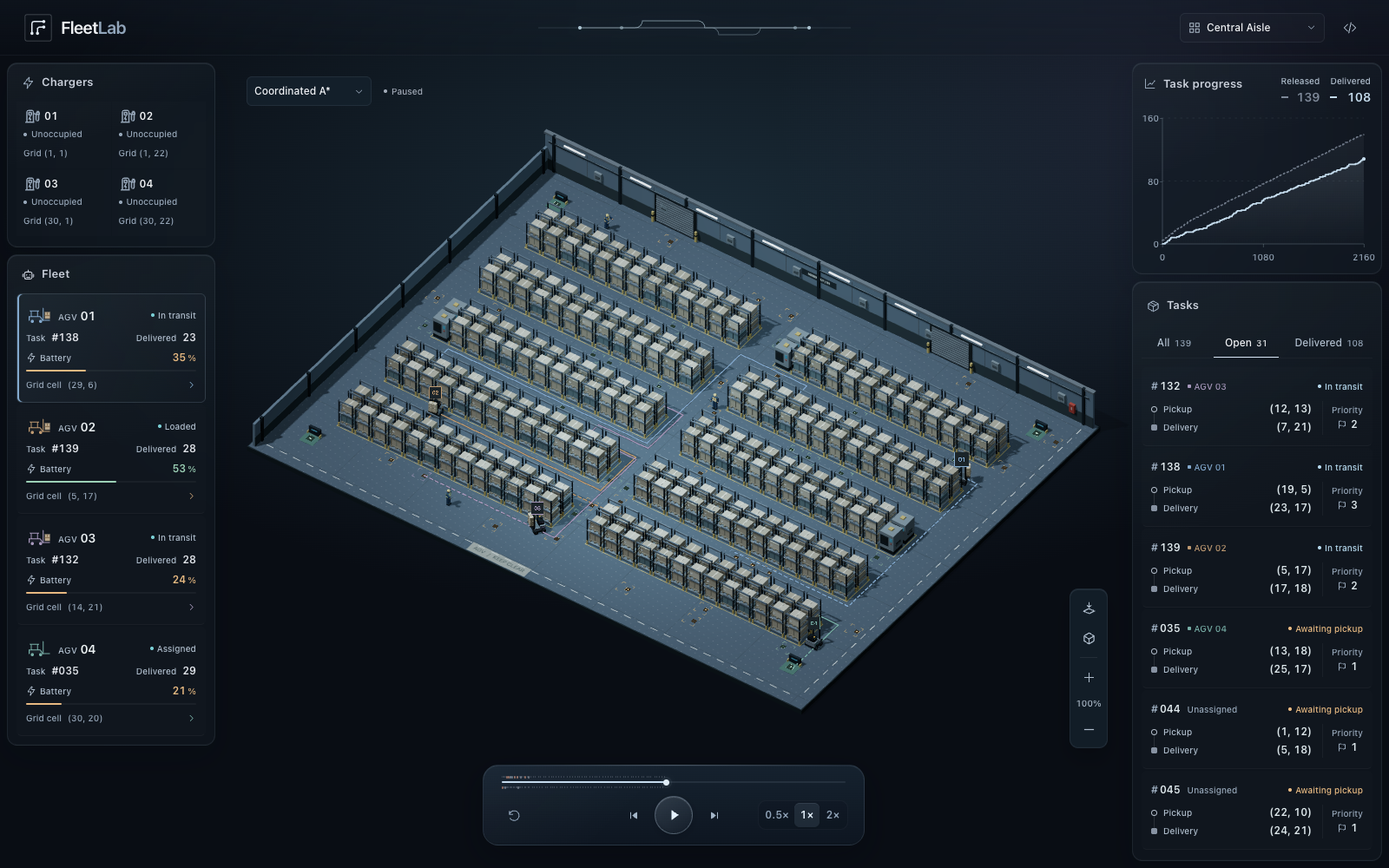
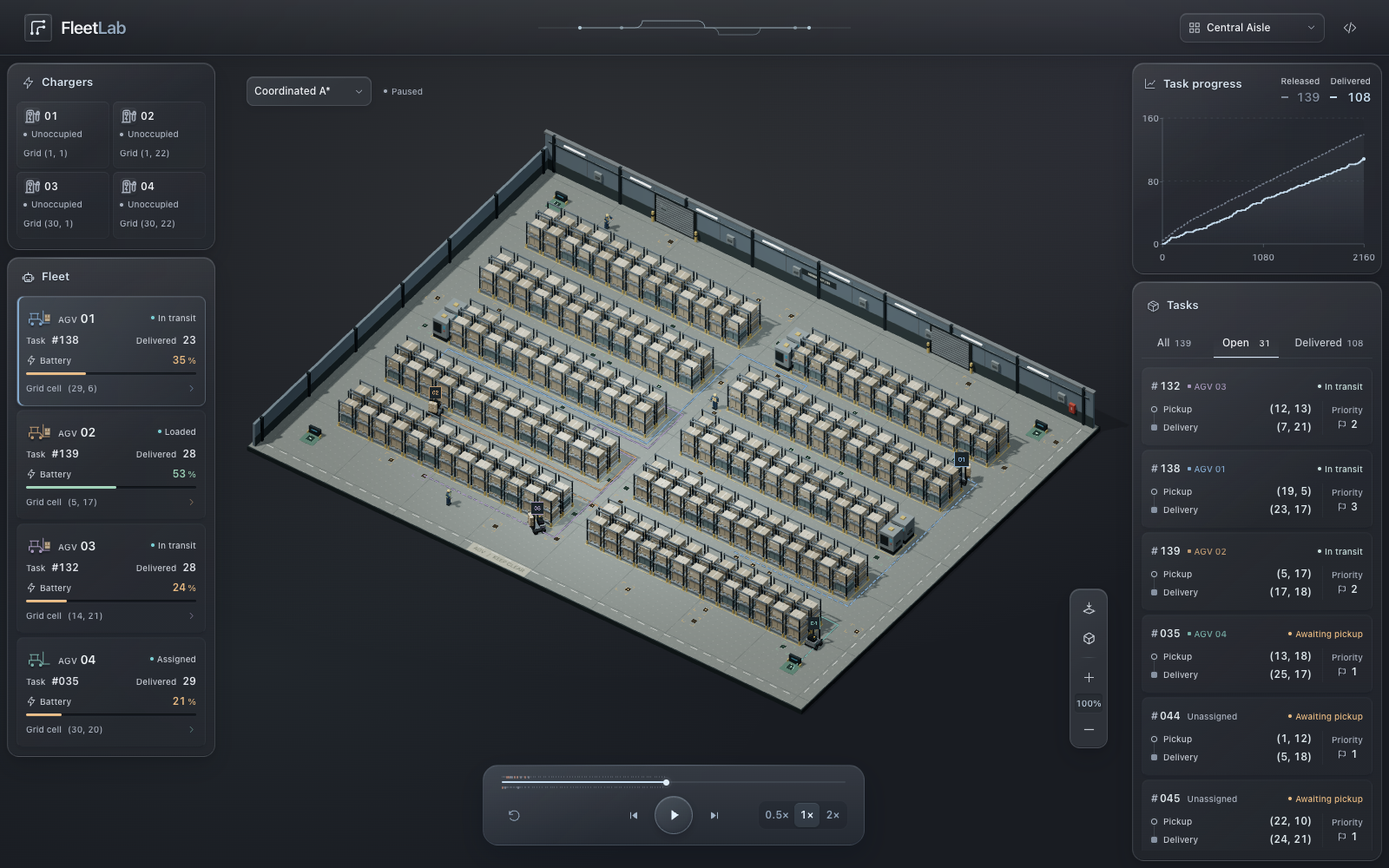
Refine the dashboard with neutral glass surfaces and balanced lighting
Give panels, cards, and controls layered glass edges, restrained highlights,
and refined focus and selection states. Use graphite and silver surfaces
with localized mint and violet accents and aligned chart values.

Balance warehouse ambient light with a soft white key light while retaining
directional shadows and demand rendering. Refresh browser theme metadata,
README imagery, and social previews to match the interface.

Validated lint, TypeScript, the Pages build, 45 frontend checks, and browser
coverage of replay controls, responsive layouts, touch, keyboard navigation,
and reduced motion.

diff --git a/web/app/globals.css b/web/app/globals.css
@@ -1,20 +1,22 @@
 @import "tailwindcss";
 
-/* Smoked glass against a dark field, with light concentrated around the scene. */
+/* Neutral smoked glass with silver light and restrained spectral accents. */
 :root {
-  --canvas: #090d14;
-  --surface: #11192394;
-  --surface-raised: #ffffff02;
-  --surface-hover: #ffffff0a;
-  --surface-inset: #070c1440;
-  --selection: #c2cfdf;
+  --canvas: #191c22;
+  --surface: #292d348f;
+  --surface-raised: linear-gradient(140deg, #e5e9f00b, #d6dce602 65%);
+  --surface-hover: linear-gradient(140deg, #e5e9f012, #d6dce606 65%);
+  --surface-inset: #181b2340;
+  --selection: #d2d9e5;
   --ink: #eff1f4;
-  --muted: #afbdcc;
-  --faint: #96a6b8;
-  --rule: #c6dced14;
-  --accent: #b5d8ed;
-  --glass-overlay: #14212dc9;
-  --glass-edge: inset 0 1px 0 #d3ebff14, inset 0 -1px 0 #ffffff03;
+  --muted: #c4c9d1;
+  --faint: #aab2bf;
+  --rule: #e1e7ef21;
+  --accent: #c8dedc;
+  --glass-overlay: #343940c4;
+  --glass-edge: inset 0 1px 0 #e1efff24, inset 1px 0 0 #bed8ef08, inset 0 -1px 0 #090c1455;
+  --elevation-panel: var(--glass-edge), 0 2px 6px #090b102b, 0 12px 26px #090b102e;
+  --elevation-control: inset 0 1px 0 #e4f1ff1f, 0 3px 8px #090c1426;
   --charging: #b8c88e;
   --green: #9cd1b6;
   --amber: #e7b981;
@@ -43,64 +45,65 @@ strong, b, h1, h2, h3, h4 { font-weight: 600; }
 small { font-size: var(--text-caption); font-weight: 500; }
 [hidden] { display: none !important; }
 .icon { width: 18px; height: 18px; display: inline-block; vertical-align: middle; flex: 0 0 auto; }
-.app-shell { height: 100dvh; min-height: 600px; display: flex; flex-direction: column; background: radial-gradient(ellipse 50% 45% at 50% 26%, #3e6a8052, transparent), radial-gradient(ellipse 28% 38% at 84% 12%, #5e5a8c2e, transparent), var(--canvas); background-size: 100% 100dvh; background-repeat: no-repeat; }
-.app-header { position: relative; z-index: 3; display: flex; align-items: center; justify-content: space-between; gap: 16px; flex: 0 0 64px; margin: 0; padding: 0 28px; border: 0; border-bottom: 1px solid #e1e8f008; border-radius: 0; background: linear-gradient(180deg, #18233240, #090d1410); box-shadow: none; }
+.app-shell { height: 100dvh; min-height: 600px; display: flex; flex-direction: column; background: radial-gradient(ellipse 56% 54% at 46% 25%, #c8c5b821, transparent), radial-gradient(ellipse 30% 36% at 84% 12%, #827b9b1c, transparent), radial-gradient(ellipse 38% 32% at 19% 76%, #91b7b110, transparent), var(--canvas); background-size: 100% 100dvh; background-repeat: no-repeat; }
+.app-header { position: relative; z-index: 3; display: flex; align-items: center; justify-content: space-between; gap: 16px; flex: 0 0 64px; margin: 0; padding: 0 28px; border: 0; border-bottom: 1px solid #d5e7ff14; border-radius: 0; background: linear-gradient(180deg, #b4b9c31a, #1b1d241f); box-shadow: inset 0 -1px 0 #07152840, 0 4px 18px #02060c16; }
 .brand { display: flex; align-items: center; gap: 10px; flex: 0 0 auto; min-height: 36px; padding: 0; border-radius: 3px; }
-.brand-mark { display: grid; place-items: center; width: 32px; height: 32px; color: #e1eaf3; transition: color 160ms; filter: none; }
+.brand-mark { display: grid; place-items: center; width: 32px; height: 32px; color: #e1eaf3; transition: color 160ms; filter: none; background: linear-gradient(145deg, #cee5ff12, #bfd4eb02); border-radius: 8px; box-shadow: var(--elevation-control); }
 .brand-mark .brand-symbol { width: 100%; height: 100%; }
 .brand-symbol { flex: 0 0 auto; display: block; }
 .brand-name, .loading-mark { font-size: var(--text-display); font-weight: 600; letter-spacing: -.7px; color: var(--ink); line-height: 1; }
-.brand-name { display: inline-flex; align-items: baseline; letter-spacing: -.6px; transition: color 160ms; }
+.brand-name { display: inline-flex; align-items: baseline; letter-spacing: -.6px; transition: color 160ms; text-shadow: 0 1px 2px #02060c80; }
 .brand-name > span { color: #91a5ba; }
 .brand:hover .brand-mark { color: var(--accent); }
 .brand:hover .brand-name { color: #ffffff; }
 .header-routes { position: absolute; left: 50%; top: 50%; transform: translate(-50%, -50%); width: clamp(140px, calc(100vw - 540px), 360px); height: 32px; color: #c4dfed; opacity: .85; pointer-events: none; filter: drop-shadow(0 0 8px #bedaff26); }
 .header-actions { display: flex; flex: 0 0 auto; align-items: center; gap: 12px; color: var(--muted); }
-.repository-link { display: grid; place-items: center; width: 34px; height: 34px; border: 0; border-radius: 3px; background: transparent; color: var(--muted); box-shadow: none; }
-.repository-link:hover { color: var(--ink); }
+.repository-link { display: grid; place-items: center; width: 34px; height: 34px; border: 0; border-radius: 7px; background: transparent; color: var(--muted); box-shadow: none; }
+.repository-link:hover { color: var(--ink); background: #c6dcef09; }
 .repository-link .icon { width: 16px; height: 16px; }
 .compact-picker { position: relative; flex: 0 0 auto; }
 .picker-trigger { display: flex; align-items: center; gap: 7px; width: 100%; min-height: 34px; padding: 0 10px; border: 0; border-radius: inherit; background: transparent; color: var(--ink); font: 500 var(--text-body)/16px var(--sans); text-align: left; }
 .picker-trigger:focus { outline: none; }
-.compact-picker:has(.picker-trigger:focus-visible) { box-shadow: inset 0 -2px 0 #a2afb9; }
+.compact-picker:has(.picker-trigger:focus-visible) { box-shadow: inset 0 -2px 0 #a2afb9, var(--elevation-control); }
 .picker-value { display: block; overflow: hidden; text-overflow: ellipsis; white-space: nowrap; }
 .picker-leading { display: grid; place-items: center; color: var(--muted); }
 .picker-chevron { width: 11px; height: 11px; transform: rotate(90deg); transition: transform 160ms cubic-bezier(.2, .8, .2, 1); pointer-events: none; color: var(--faint); }
 .picker-trigger[aria-expanded="true"] .picker-chevron { transform: rotate(270deg); }
 .picker-popover { position: absolute; top: 100%; left: 0; z-index: 30; width: max-content; max-width: calc(100vw - 32px); padding-top: 3px; }
-.picker-menu { --picker-row-height: 28px; position: relative; color-scheme: dark; list-style: none; margin: 0; padding: 4px; border: 1px solid #ffffff24; border-radius: 8px; color: var(--ink); background: var(--glass-overlay); box-shadow: var(--glass-edge), 0 16px 40px #00000055; font: 500 var(--text-body)/16px var(--sans); font-optical-sizing: auto; letter-spacing: normal; transform-origin: top left; animation: picker-menu-in 100ms ease-out both; }
-.picker-menu::before { content: ""; position: absolute; top: 4px; left: 4px; right: 4px; z-index: 0; height: var(--picker-row-height); border-radius: 4px; background: #cedbe61c; transform: translateY(calc(var(--picker-index, 0) * var(--picker-row-height))); transition: transform 80ms ease-out; pointer-events: none; }
+.picker-menu { --picker-row-height: 28px; position: relative; color-scheme: dark; list-style: none; margin: 0; padding: 4px; border: 1px solid #c1d6ef2c; border-radius: 8px; color: var(--ink); background: linear-gradient(145deg, #d7eaff0c, transparent 60%), var(--glass-overlay); box-shadow: var(--glass-edge), 0 6px 12px #00000030, 0 20px 40px #00000055; font: 500 var(--text-body)/16px var(--sans); font-optical-sizing: auto; letter-spacing: normal; transform-origin: top left; animation: picker-menu-in 100ms ease-out both; }
+.picker-menu::before { content: ""; position: absolute; top: 4px; left: 4px; right: 4px; z-index: 0; height: var(--picker-row-height); border-radius: 4px; background: linear-gradient(120deg, #cedbe626, #cedbe612); transform: translateY(calc(var(--picker-index, 0) * var(--picker-row-height))); transition: transform 80ms ease-out; pointer-events: none; box-shadow: inset 0 1px 0 #e6f2ff12, 0 1px 3px #03071026; }
 .picker-option { position: relative; z-index: 1; display: flex; align-items: center; gap: 3px; height: var(--picker-row-height); padding: 0 8px 0 5px; border-radius: 3px; color: inherit; font: inherit; letter-spacing: inherit; white-space: nowrap; cursor: default; touch-action: manipulation; transition: color 80ms; }
 .picker-option[aria-selected="true"] { font-weight: 600; }
 .picker-option[data-active="true"] { color: #ffffff; }
 .picker-check { display: grid; place-items: center; flex: 0 0 11px; width: 11px; }
 .picker-check .icon { width: 11px; height: 11px; stroke-width: 2.2; color: currentColor; }
 @keyframes picker-menu-in { from { opacity: 0; } to { opacity: 1; } }
-.layout-picker { color: var(--muted); background: #ffffff04; border: 1px solid var(--rule); border-radius: 6px; }
-.layout-picker:hover { background: #ffffff09; border-color: #ffffff20; }
+.layout-picker { color: var(--muted); background: linear-gradient(145deg, #d2e5fc0b, #d2e5fc02); border: 1px solid var(--rule); border-radius: 8px; box-shadow: var(--elevation-control); }
+.layout-picker:hover { background: linear-gradient(145deg, #d2e5fc14, #d2e5fc05); border-color: #cee1f536; }
 .layout-picker .picker-trigger { min-height: 32px; padding-inline: 9px; }
 .layout-picker .picker-leading .icon { width: 14px; height: 14px; }
 .layout-picker .picker-value { width: 108px; }
 .layout-picker .picker-popover { left: auto; right: 0; }
 .layout-picker .picker-menu { transform-origin: top right; }
 .control-workspace { --fleet-width: 240px; --tasks-width: 288px; display: grid; grid-template-columns: var(--fleet-width) minmax(0, 1fr) var(--tasks-width); flex: 1; min-height: 0; gap: var(--workspace-gap); padding: var(--workspace-gap); position: relative; isolation: isolate; }
-.side-panel, .map-panel { min-width: 0; min-height: 0; border: 1px solid var(--rule); border-radius: 12px; overflow: hidden; background: linear-gradient(160deg, #b8d2e60a, transparent 42%), var(--surface); box-shadow: var(--glass-edge), 0 14px 36px #03070d30; }
-.side-panel { display: flex; flex-direction: column; }
+.side-panel, .map-panel { min-width: 0; min-height: 0; border: 1px solid var(--rule); border-radius: 14px; overflow: hidden; background: linear-gradient(150deg, #e4e6ec18, transparent 44%), linear-gradient(180deg, #363a440f, #1b1e2621), var(--surface); box-shadow: var(--elevation-panel); }
+.side-panel { display: flex; flex-direction: column; position: relative; }
+.side-panel::before { content: ""; position: absolute; top: 0; left: 14px; right: 14px; height: 1px; background: linear-gradient(90deg, transparent, #d5eaff38 25%, #d5eaff12 75%, transparent); pointer-events: none; }
 .fleet-sidebar { display: flex; flex-direction: column; gap: var(--workspace-gap); min-width: 0; min-height: 0; }
 .fleet-panel { flex: 0 1 auto; }
-.fleet-panel .side-heading { flex-basis: 44px; }
+.fleet-panel .side-heading { flex-basis: 44px; background: linear-gradient(180deg, #c6dcef03, transparent); }
 .side-heading { flex: 0 0 54px; padding: 0 16px; display: flex; align-items: center; justify-content: space-between; border-bottom: 0; }
-.side-heading h2 { display: flex; align-items: center; gap: 8px; font-size: var(--text-title); color: #cbd1dc; white-space: nowrap; letter-spacing: .2px; }
-.side-heading h2 > .icon, .chart-heading h2 > .icon { width: 15px; height: 15px; flex: 0 0 auto; color: var(--faint); }
-.fleet-panel .side-heading h2, .fleet-panel .side-heading h2 > .icon { color: #cbd1dc; transition: color 180ms; }
-.fleet-cards { display: flex; flex-direction: column; flex: 1; min-height: 0; gap: 2px; padding: 0 10px 10px; overflow-y: auto; overflow-x: hidden; overscroll-behavior-y: contain; scrollbar-width: thin; scrollbar-color: #505660 transparent; scrollbar-gutter: stable; scroll-padding-block: 3px; }
+.side-heading h2 { display: flex; align-items: center; gap: 8px; font-size: var(--text-title); color: #d8e4ef; white-space: nowrap; letter-spacing: .15px; text-shadow: 0 1px 1px #02060c60; }
+.side-heading h2 > .icon, .chart-heading h2 > .icon { width: 15px; height: 15px; flex: 0 0 auto; color: var(--faint); filter: drop-shadow(0 1px 1px #02060c80); }
+.fleet-panel .side-heading h2, .fleet-panel .side-heading h2 > .icon { color: #d8e4ef; transition: color 180ms; }
+.fleet-cards { display: flex; flex-direction: column; flex: 1; min-height: 0; gap: 4px; padding: 0 10px 10px; overflow-y: auto; overflow-x: hidden; overscroll-behavior-y: contain; scrollbar-width: thin; scrollbar-color: #687c8c60 transparent; scrollbar-gutter: stable; scroll-padding-block: 3px; }
 .fleet-cards:focus-visible { outline: 1px solid var(--selection); outline-offset: -2px; border-radius: 3px; }
-.vehicle-card { position: relative; display: flex; flex-direction: column; flex: 0 0 auto; justify-content: space-between; gap: 5px; min-width: 0; min-height: 124px; padding: 12px 10px; border: 1px solid transparent; border-radius: 6px; background: var(--surface-raised); text-align: left; border-bottom-color: #ffffff09; }
-.vehicle-card:hover { background: var(--surface-hover); border-color: #ffffff0c; }
-.vehicle-card.is-active { border-color: #c5dcf224; background: linear-gradient(110deg, #a8d7f00f, #c5dcf202); box-shadow: inset 2px 0 var(--vehicle-color); }
+.vehicle-card { position: relative; display: flex; flex-direction: column; flex: 0 0 auto; justify-content: space-between; gap: 5px; min-width: 0; min-height: 124px; padding: 12px 10px; border: 1px solid #d2e7fa09; border-radius: 8px; background: var(--surface-raised); text-align: left; border-bottom-color: #01060d33; box-shadow: inset 0 1px 0 #d5eaff05, 0 2px 4px #01040a18; transition: border-color 160ms, background-color 160ms, box-shadow 160ms; }
+.vehicle-card:hover { background: var(--surface-hover); border-color: #c5dcf229; box-shadow: inset 0 1px 0 #d5eaff10, 0 3px 8px #01040a30; }
+.vehicle-card.is-active { border-color: #c5dcf233; background: linear-gradient(120deg, #badcf51a, #c5dcf204); box-shadow: inset 2px 0 var(--vehicle-color), inset 0 1px 0 #e1f2ff14, 0 3px 8px #01040a35; }
 .vehicle-card:focus-visible, .task-card:focus-visible { outline: 2px solid var(--selection); outline-offset: -2px; }
 .vehicle-card-heading { display: flex; align-items: center; gap: 7px; min-width: 0; }
-.vehicle-symbol { color: var(--vehicle-color); display: grid; place-items: center; }
+.vehicle-symbol { color: var(--vehicle-color); display: grid; place-items: center; filter: drop-shadow(0 2px 1px #02060c80); }
 .forklift-glyph { flex: 0 0 auto; width: 38px; height: 32px; }
 .vehicle-symbol .forklift-glyph { width: 30px; height: 24px; }
 .vehicle-card-heading > strong { font-size: var(--text-value); letter-spacing: -.3px; color: #edf2f4; white-space: nowrap; font-variant-numeric: tabular-nums; }
@@ -115,27 +118,28 @@ small { font-size: var(--text-caption); font-weight: 500; }
 .vehicle-battery-label .icon { width: 12px; height: 12px; }
 .vehicle-battery-label strong { color: inherit; font-size: var(--text-body); font-weight: 600; font-variant-numeric: tabular-nums; }
 .vehicle-battery-label small { margin-left: 2px; color: inherit; }
-.vehicle-battery-track { display: block; flex: 0 0 2px; height: 2px; background: #ffffff0b; border-radius: 1px; overflow: hidden; }
-.vehicle-battery-track i { display: block; height: 100%; border-radius: inherit; background: var(--battery-color); transition: width 180ms linear, background-color 180ms; }
+.vehicle-battery-track { display: block; flex: 0 0 3px; height: 3px; background: #02070d75; border-radius: 2px; overflow: hidden; box-shadow: inset 0 1px 1px #0006, 0 1px 0 #c6dcef07; }
+.vehicle-battery-track i { display: block; height: 100%; border-radius: inherit; background: var(--battery-color); transition: width 180ms linear, background-color 180ms; box-shadow: inset 0 1px 0 #ffffff38; }
 .vehicle-position { display: flex; align-items: center; gap: 7px; border-top: 0; padding-top: 3px; color: var(--faint); font-size: var(--text-caption); font-variant-numeric: tabular-nums; }
-.vehicle-position .icon { width: 11px; height: 11px; margin-left: auto; color: var(--vehicle-color); }
+.vehicle-position .icon { width: 11px; height: 11px; margin-left: auto; color: var(--vehicle-color); opacity: .65; transition: opacity 160ms, transform 160ms; }
+.vehicle-card:hover .vehicle-position .icon, .vehicle-card:focus-visible .vehicle-position .icon { opacity: 1; transform: translateX(2px); }
 .operations-panel { display: flex; flex-direction: column; gap: var(--workspace-gap); min-width: 0; min-height: 0; }
 .chargers-panel { flex: 0 0 auto; }
 .chargers-panel .side-heading { flex-basis: 44px; }
-.charger-list { display: grid; grid-template-columns: repeat(2, minmax(0, 1fr)); gap: 1px; list-style: none; margin: 0 10px 12px; padding: 0; border: 0; border-radius: 0; overflow: hidden; background: transparent; }
-.charger-card { --charger-color: var(--faint); display: flex; flex-direction: column; gap: 3px; min-width: 0; padding: 7px 8px; border: 0; background: var(--surface-raised); }
-.charger-card.is-charging { --charger-color: var(--charging); background: #ffffff04; box-shadow: inset 0 -1px #b8c88e30; }
+.charger-list { display: grid; grid-template-columns: repeat(2, minmax(0, 1fr)); gap: 4px; list-style: none; margin: 0 10px 12px; padding: 0; border: 0; border-radius: 7px; overflow: hidden; background: transparent; }
+.charger-card { --charger-color: var(--faint); display: flex; flex-direction: column; gap: 3px; min-width: 0; padding: 7px 8px; border: 0; background: var(--surface-raised); border-radius: 6px; box-shadow: inset 0 1px 0 #e1f2ff09, inset 0 0 0 1px #bdd6f10a, 0 1px 2px #01040a20; }
+.charger-card.is-charging { --charger-color: var(--charging); background: linear-gradient(145deg, #b8c88e0d, #b8c88e02); box-shadow: inset 0 1px 0 #e4edcf12, inset 0 -1px #b8c88e40, inset 0 0 0 1px #b8c88e12; }
 .charger-card.is-occupied { --charger-color: var(--amber); }
 .charger-card-heading { display: flex; flex-wrap: nowrap; align-items: center; justify-content: space-between; gap: 3px; font-variant-numeric: tabular-nums; }
 .charger-card-heading strong { display: flex; align-items: center; gap: 4px; font-size: var(--text-body); font-weight: 600; }
-.charger-symbol { display: grid; place-items: center; flex: 0 0 20px; width: 20px; height: 20px; border-radius: 3px; color: var(--charger-color); background: transparent; }
+.charger-symbol { display: grid; place-items: center; flex: 0 0 20px; width: 20px; height: 20px; border-radius: 5px; color: var(--charger-color); background: linear-gradient(145deg, #d5eaff0b, #d5eaff02); box-shadow: inset 0 1px 0 #e1f2ff0c, 0 1px 2px #01040a30; }
 .charger-symbol .icon { width: 18px; height: 18px; }
 .charger-battery { margin-left: auto; font-size: var(--text-caption); color: var(--muted); white-space: nowrap; }
 .charger-battery small { margin-left: 1px; font-size: var(--text-caption); }
 .charger-state { display: flex; align-items: center; gap: 5px; font-size: var(--text-caption); color: var(--charger-color); }
 .charger-state i { width: 4px; height: 4px; flex: 0 0 auto; border-radius: 50%; background: currentColor; }
 .charger-vehicle { display: flex; align-items: center; justify-content: space-between; gap: 4px; min-height: 22px; padding: 0; border: 0; border-radius: 3px; background: transparent; color: var(--vehicle-color); font-size: var(--text-caption); }
-.charger-vehicle:hover { background: #ffffff08; }
+.charger-vehicle:hover { background: #c6dcef0b; }
 .charger-vehicle > span { display: flex; align-items: center; gap: 5px; }
 .charger-vehicle i { width: 4px; height: 4px; border-radius: 1px; background: currentColor; }
 .charger-vehicle .icon { width: 10px; height: 10px; }
@@ -145,14 +149,15 @@ small { font-size: var(--text-caption); font-weight: 500; }
 .map-panel { position: relative; display: flex; flex-direction: column; background: transparent; border: 0; border-radius: 0; box-shadow: none; }
 .map-heading { position: absolute; top: 0; left: 0; right: 0; height: 58px; z-index: 2; display: flex; align-items: center; justify-content: flex-start; gap: 10px; padding: 0 16px; pointer-events: none; }
 .map-heading > div { display: flex; align-items: center; gap: 14px; }
-.algorithm-picker { pointer-events: auto; margin-left: 0; border: 1px solid var(--rule); border-radius: 6px; background: var(--glass-overlay); }
-.algorithm-picker:hover { background: #243443ee; border-color: #d5e8fa26; }
+.algorithm-picker { pointer-events: auto; margin-left: 0; border: 1px solid var(--rule); border-radius: 8px; background: linear-gradient(145deg, #d7eaff0a, transparent 65%), var(--glass-overlay); box-shadow: var(--elevation-control); }
+.algorithm-picker:hover { background: linear-gradient(145deg, #d7eaff14, transparent 65%), var(--glass-overlay); border-color: #d5e8fa3d; }
 .algorithm-picker .picker-trigger { min-height: 32px; padding-inline: 8px; }
 .algorithm-picker .picker-value { width: 108px; }
 .algorithm-picker .picker-trigger:disabled { opacity: .5; cursor: progress; }
 .algorithm-error { position: fixed; z-index: 10; top: 64px; left: 50%; transform: translateX(-50%); display: flex; align-items: center; gap: 10px; max-width: calc(100% - 24px); padding: 8px 12px; border: 1px solid #ee96884d; border-radius: 3px; background: #2c2525; box-shadow: 0 8px 24px #0005; color: #ee9688; }
 .algorithm-error button { border: 0; border-radius: 3px; background: #ffffff0a; padding: 0 8px; }
 .playback-status { display: flex; align-items: center; gap: 5px; color: #a1a9b6; font-size: var(--text-caption); background: transparent; padding: 0; border-radius: 3px; }
+.playback-status i, .vehicle-status i, .charger-state i, .task-status i { box-shadow: 0 0 0 2px #c6dcef08, 0 1px 2px #02060c80; }
 .playback-status.is-playing { color: var(--green); background: transparent; }
 /* Contain scene overlays below the algorithm menu in the floating header. */
 .map-stage { position: relative; z-index: 0; flex: 1; min-height: 130px; }
@@ -167,7 +172,7 @@ small { font-size: var(--text-caption); font-weight: 500; }
 .forklift-notice-anchor[data-notice-kind="route"] { --notice-ink: #ffd08a; --notice-border: #eaa64f9c; --notice-surface: #3a2b1cf5; }
 .forklift-notice-anchor[data-notice-kind="pickup"] { --notice-ink: #8be3f5; --notice-border: #65cadd5c; --notice-surface: #152c35f5; }
 .forklift-notice-anchor[data-notice-kind="delivery"] { --notice-ink: #a6ecc4; --notice-border: #69ca975c; --notice-surface: #192f26f5; }
-.forklift-notice { position: absolute; bottom: 0; left: 0; display: flex; align-items: center; gap: 5px; width: max-content; max-width: 100%; height: 28px; transform: translateX(-50%); padding: 0 8px; border: 1px solid var(--notice-border); border-radius: 3px; background: var(--notice-surface); font-size: var(--text-caption); line-height: 16px; white-space: nowrap; animation: forklift-notice-in 100ms ease-out both, forklift-notice-out 120ms ease-in var(--notice-remaining) forwards; }
+.forklift-notice { position: absolute; bottom: 0; left: 0; display: flex; align-items: center; gap: 5px; width: max-content; max-width: 100%; height: 28px; transform: translateX(-50%); padding: 0 8px; border: 1px solid var(--notice-border); border-radius: 6px; background: var(--notice-surface); font-size: var(--text-caption); line-height: 16px; white-space: nowrap; animation: forklift-notice-in 100ms ease-out both, forklift-notice-out 120ms ease-in var(--notice-remaining) forwards; box-shadow: inset 0 1px 0 #ffffff10, 0 3px 9px #02060c40; }
 .forklift-notice-anchor[data-notice-kind="route"] .forklift-notice { border-left-width: 3px; }
 .forklift-notice-vehicle { padding: 0 2px; border-radius: 3px; background: #ffffff0b; color: var(--vehicle-color); font-weight: 600; font-variant-numeric: tabular-nums; }
 .forklift-notice-message { min-width: 0; overflow: hidden; text-overflow: ellipsis; color: var(--notice-ink); font-weight: 500; }
@@ -176,15 +181,15 @@ small { font-size: var(--text-caption); font-weight: 500; }
 @keyframes forklift-notice-out { to { opacity: 0; } }
 @media (prefers-reduced-motion: reduce) { .forklift-notice { animation: none; } }
 .scene-camera-tools { position: absolute; right: 12px; bottom: 128px; z-index: 2; pointer-events: none; }
-.camera-controls { display: flex; flex-direction: column; align-items: center; gap: 3px; padding: 5px; background: var(--glass-overlay); border: 1px solid var(--rule); border-radius: 10px; pointer-events: auto; box-shadow: var(--glass-edge), 0 12px 24px #00000030; }
-.camera-controls button { display: grid; place-items: center; min-height: 32px; width: 32px; padding: 0; border: 0; background: transparent; color: var(--muted); border-radius: 5px; }
-.camera-controls button:hover { color: var(--ink); background: #ffffff0d; }
+.camera-controls { display: flex; flex-direction: column; align-items: center; gap: 3px; padding: 5px; background: linear-gradient(145deg, #d4e7ff0c, transparent 50%), var(--glass-overlay); border: 1px solid var(--rule); border-radius: 12px; pointer-events: auto; box-shadow: var(--elevation-panel); }
+.camera-controls button { display: grid; place-items: center; min-height: 32px; width: 32px; padding: 0; border: 0; background: transparent; color: var(--muted); border-radius: 7px; }
+.camera-controls button:hover { color: var(--ink); background: linear-gradient(145deg, #d4e7ff14, #d4e7ff07); box-shadow: inset 0 1px 0 #e4f1ff12, 0 2px 4px #03070d30; }
 .camera-controls button:focus-visible { outline-offset: -2px; }
 .camera-controls svg { width: 17px; height: 17px; }
-.camera-controls output { display: grid; place-items: center; min-height: 22px; min-width: 32px; font-size: var(--text-caption); font-variant-numeric: tabular-nums; text-align: center; color: var(--muted); }
-.camera-divider { width: 20px; height: 1px; background: #ffffff12; margin: 3px 0; }
+.camera-controls output { display: grid; place-items: center; min-height: 22px; min-width: 32px; font-size: var(--text-caption); font-variant-numeric: tabular-nums; text-align: center; color: #c5d6e6; background: #03080e24; border-radius: 4px; box-shadow: inset 0 1px 2px #02060c40, 0 1px 0 #e4f1ff07; }
+.camera-divider { width: 20px; height: 1px; background: linear-gradient(90deg, transparent, #c6dcef26, transparent); margin: 3px 0; }
 .closure-status { position: absolute; top: 54px; left: 18px; z-index: 2; pointer-events: none; color: var(--amber); font-size: var(--text-caption); padding: 4px 8px; border: 1px solid #e7b98120; border-radius: 6px; background: #29271feb; }
-.task-focus-chip { position: absolute; top: 54px; right: 18px; z-index: 2; display: flex; gap: 12px; align-items: center; min-height: 28px; padding: 0 9px; background: #2b3038ee; border: 1px solid #c2cfdf30; border-radius: 6px; color: var(--selection); font-size: var(--text-body); }
+.task-focus-chip { position: absolute; top: 54px; right: 18px; z-index: 2; display: flex; gap: 12px; align-items: center; min-height: 28px; padding: 0 9px; background: linear-gradient(145deg, #d7eaff12, transparent), var(--glass-overlay); border: 1px solid #c2cfdf30; border-radius: 6px; color: var(--selection); font-size: var(--text-body); box-shadow: var(--elevation-control); }
 .task-focus-chip span { color: var(--muted); font-size: var(--text-value); }
 .scene-loading, .scene-error { position: absolute; inset: 0; display: flex; flex-direction: column; justify-content: center; align-items: center; gap: 10px; color: var(--muted); font-size: var(--text-body); padding: 20px; text-align: center; }
 .scene-error { background: var(--surface-inset); z-index: 3; }
@@ -192,7 +197,7 @@ small { font-size: var(--text-caption); font-weight: 500; }
 .scene-error > svg { width: 16px; height: 16px; color: var(--accent); }
 .scene-error button, .error-shell button { padding: 6px 16px; border: 1px solid #ffffff18; border-radius: 3px; background: var(--surface-raised); color: var(--ink); }
 
-.replay-controls { --replay-highlight: #c6dcef; --replay-track: #d6e8ff16; flex: 0 0 auto; margin: 0 auto; border: 1px solid #bdd8f21c; padding: 9px 18px 12px; background: linear-gradient(135deg, #d4e7ff09, transparent 42%), linear-gradient(180deg, #182533d9, #0e1722e8); position: absolute; z-index: 2; left: 12px; right: 12px; bottom: 18px; max-width: 440px; border-radius: 18px; box-shadow: inset 0 1px 0 #e3f0ff0d, inset 0 -1px 0 #02060b40, 0 12px 32px #03070d66; }
+.replay-controls { --replay-highlight: #c6dcef; --replay-track: #d6e8ff16; flex: 0 0 auto; margin: 0 auto; border: 1px solid #bdd8f21c; padding: 9px 18px 12px; background: linear-gradient(135deg, #d4e7ff10, transparent 42%), linear-gradient(180deg, #3b414acc, #272c35d6); position: absolute; z-index: 2; left: 12px; right: 12px; bottom: 18px; max-width: 440px; border-radius: 18px; box-shadow: inset 0 1px 0 #e3f0ff0d, inset 0 -1px 0 #07152833, 0 12px 32px #030c1a40; }
 .replay-controls::before { content: ""; position: absolute; height: 1px; top: -1px; left: 24px; right: 24px; background: linear-gradient(90deg, transparent, #c6dcef40, transparent); pointer-events: none; }
 .replay-controls :is(button, input):focus-visible { outline: 2px solid var(--replay-highlight); outline-offset: 3px; }
 .timeline-control { position: relative; height: 24px; margin: 0 3px; }
@@ -229,21 +234,21 @@ small { font-size: var(--text-caption); font-weight: 500; }
 .speed-control button.is-active { color: #e5f2ff; background: #b8d9f21a; box-shadow: inset 0 1px 0 #d6eaff16, 0 1px 3px #03070d33; }
 
 .task-panel-content { display: flex; flex-direction: column; flex: 1; min-height: 0; padding: 0 10px 14px; }
-.task-filters { display: flex; flex: 0 0 34px; align-items: stretch; margin: 0 0 10px; padding: 0; border-radius: 0; background: transparent; gap: 8px; border-bottom: 1px solid #ffffff09; }
+.task-filters { display: flex; flex: 0 0 34px; align-items: stretch; margin: 0 0 10px; padding: 0; border-radius: 0; background: transparent; gap: 8px; border-bottom: 1px solid #c6dcef13; }
 .task-filters button { flex: 1; display: flex; align-items: center; justify-content: center; gap: 5px; padding: 0 2px; min-height: 28px; border: 0; border-radius: 0; background: transparent; color: var(--muted); font-size: var(--text-body); white-space: nowrap; border-bottom: 1px solid transparent; font-variant-numeric: tabular-nums; }
 .task-filters button:hover { color: var(--ink); background: #ffffff03; }
 .task-filters button[data-filter="done"] { flex: 1.35; }
-.task-filters button.is-active { color: var(--ink); background: transparent; box-shadow: none; border-bottom-color: #d7e5f5; }
-.task-filters button span { color: var(--faint); font-size: var(--text-caption); }
+.task-filters button.is-active { color: var(--ink); background: linear-gradient(0deg, #c6dcef0a, transparent 65%); box-shadow: 0 1px 0 #d7e5f51a; border-bottom-color: #d7e5f5; }
+.task-filters button span { color: var(--faint); font-size: var(--text-caption); min-width: 3ch; text-align: right; }
 .task-filters button.is-active span { color: var(--ink); }
-.task-list { display: flex; flex-direction: column; flex: 1; min-height: 0; gap: 2px; list-style: none; padding: 3px; margin: -3px; overflow-y: auto; overflow-x: hidden; overscroll-behavior-y: contain; scrollbar-width: thin; scrollbar-color: #505660 transparent; scrollbar-gutter: stable; scroll-padding-block: 3px; }
+.task-list { display: flex; flex-direction: column; flex: 1; min-height: 0; gap: 4px; list-style: none; padding: 3px; margin: -3px; overflow-y: auto; overflow-x: hidden; overscroll-behavior-y: contain; scrollbar-width: thin; scrollbar-color: #687c8c60 transparent; scrollbar-gutter: stable; scroll-padding-block: 3px; }
 .task-list:focus-visible { outline: 1px solid var(--selection); outline-offset: 2px; border-radius: 3px; }
 .task-list::-webkit-scrollbar { width: 5px; }
-.task-list::-webkit-scrollbar-thumb { background: #505660; border-radius: 3px; }
+.task-list::-webkit-scrollbar-thumb { background: #687c8c60; border-radius: 3px; }
 .task-row { flex: 0 0 auto; min-width: 0; }
-.task-card { position: relative; display: grid; gap: 8px; min-height: 86px; width: 100%; padding: 12px 10px; border: 1px solid transparent; border-radius: 6px; background: var(--surface-raised); text-align: left; border-bottom-color: #ffffff09; }
-.task-card:hover { border-color: #ffffff0c; background: var(--surface-hover); }
-.task-card.is-selected { border-color: #c5dcf23b; background: #c5dcf20a; box-shadow: inset 2px 0 var(--selection); }
+.task-card { position: relative; display: grid; gap: 8px; min-height: 86px; width: 100%; padding: 12px 10px; border: 1px solid #d2e7fa08; border-radius: 8px; background: var(--surface-raised); text-align: left; border-bottom-color: #01060d33; box-shadow: inset 0 1px 0 #d5eaff04, 0 2px 4px #01040a18; transition: border-color 160ms, background-color 160ms, box-shadow 160ms; }
+.task-card:hover { border-color: #c5dcf229; background: var(--surface-hover); box-shadow: inset 0 1px 0 #d5eaff10, 0 3px 8px #01040a30; }
+.task-card.is-selected { border-color: #c5dcf23b; background: linear-gradient(120deg, #badcf519, #c5dcf205); box-shadow: inset 2px 0 var(--selection), inset 0 1px 0 #e1f2ff14, 0 3px 8px #01040a35; }
 .task-card-heading { display: flex; align-items: center; justify-content: space-between; gap: 6px; min-width: 0; }
 .task-identity { display: flex; align-items: center; gap: 8px; min-width: 0; }
 .task-card-heading strong { flex: 0 0 auto; font-size: var(--text-body); color: #e0e9ed; font-weight: 600; font-variant-numeric: tabular-nums; }
@@ -257,13 +262,13 @@ small { font-size: var(--text-caption); font-weight: 500; }
 .task-owner i { width: 4px; height: 4px; flex: 0 0 auto; border-radius: 1px; background: var(--owner-color); }
 .task-card-body { display: grid; grid-template-columns: minmax(0, 1fr) 47px; align-items: stretch; column-gap: 12px; }
 .task-endpoints { position: relative; display: grid; gap: 3px; min-width: 0; }
-.task-endpoints::before { content: ""; position: absolute; left: 3px; top: 10px; bottom: 10px; border-left: 1px solid #ffffff1c; }
+.task-endpoints::before { content: ""; position: absolute; left: 3px; top: 10px; bottom: 10px; border-left: 1px solid #bbd0e522; }
 .task-endpoint { display: grid; grid-template-columns: 7px minmax(0, 1fr) auto; align-items: center; gap: 7px; min-width: 0; line-height: 18px; }
-.task-endpoint-marker { z-index: 1; display: block; width: 7px; height: 7px; border: 1px solid #b3bdca; border-radius: 50%; background: transparent; }
+.task-endpoint-marker { z-index: 1; display: block; width: 7px; height: 7px; border: 1px solid #b3bdca; border-radius: 50%; background: transparent; box-shadow: 0 0 0 2px #bdd6f106, 0 1px 2px #02060c40; }
 .task-endpoint.is-delivery .task-endpoint-marker { border-color: #8792a2; border-radius: 2px; background: #8792a2; }
 .task-endpoint-label { color: var(--muted); font-size: var(--text-caption); }
 .task-coordinate { color: #dbe5e9; font-size: var(--text-body); font-weight: 600; font-variant-numeric: tabular-nums; white-space: nowrap; }
-.task-priority { display: flex; flex-direction: column; align-items: center; justify-content: center; gap: 2px; border-left: 1px solid #ffffff0b; padding-left: 10px; color: var(--faint); font-size: var(--text-caption); line-height: 1.4; }
+.task-priority { display: flex; flex-direction: column; align-items: center; justify-content: center; gap: 2px; border-left: 1px solid #c6dcef0c; padding-left: 10px; color: var(--faint); font-size: var(--text-caption); line-height: 1.4; }
 .task-priority strong { display: flex; align-items: center; justify-content: center; gap: 4px; color: #dbe5e9; font-size: var(--text-body); font-weight: 600; font-variant-numeric: tabular-nums; }
 .task-priority .icon { width: 12px; height: 12px; color: var(--faint); }
 .empty-tasks { flex: 1; min-height: 130px; display: flex; flex-direction: column; align-items: center; justify-content: center; gap: 12px; color: var(--muted); text-align: center; }
@@ -271,7 +276,7 @@ small { font-size: var(--text-caption); font-weight: 500; }
 .empty-tasks strong { font-size: var(--text-body); font-weight: 500; }
 .task-progress-panel { flex: 0 0 244px; padding: 14px 12px 10px; }
 .chart-heading { display: flex; align-items: flex-start; justify-content: space-between; gap: 8px; margin-bottom: 16px; }
-.chart-heading h2 { font-size: var(--text-title); font-weight: 600; line-height: 18px; display: flex; align-items: center; gap: 8px; min-width: 0; color: #cbd1dc; letter-spacing: .2px; }
+.chart-heading h2 { font-size: var(--text-title); font-weight: 600; line-height: 18px; display: flex; align-items: center; gap: 8px; min-width: 0; color: #d8e4ef; letter-spacing: .15px; text-shadow: 0 1px 1px #02060c60; }
 .chart-legend { display: grid; grid-template-columns: repeat(2, max-content); flex: 0 0 auto; gap: 12px; margin-left: auto; }
 .chart-legend > span { display: grid; grid-template-columns: 8px minmax(3ch, 1fr); align-items: center; column-gap: 4px; row-gap: 3px; font-size: var(--text-caption); line-height: 13px; color: var(--muted); }
 .chart-legend-label { grid-column: 1 / -1; grid-row: 1; }
@@ -279,14 +284,14 @@ small { font-size: var(--text-caption); font-weight: 500; }
 .series-delivered { --series-color: #c4dbec; }
 .chart-legend i { grid-column: 1; grid-row: 2; width: 8px; height: 2px; background: var(--series-color); }
 .chart-legend .series-released i { height: 0; border-top: 2px dashed var(--series-color); background: none; }
-.chart-legend strong { grid-column: 2; grid-row: 2; font-size: var(--text-value); font-weight: 600; line-height: 17px; color: var(--series-color); font-variant-numeric: tabular-nums; text-align: right; }
+.chart-legend strong { grid-column: 2; grid-row: 2; font-size: var(--text-value); font-weight: 600; line-height: 17px; color: var(--series-color); font-variant-numeric: tabular-nums; text-align: right; text-shadow: 0 1px 2px #02060c80; }
 .task-history-chart { display: grid; grid-template-columns: 18px minmax(0, 1fr); grid-template-rows: minmax(0, 1fr) 24px; grid-template-areas: "y plot" ". x"; flex: 1; min-height: 104px; column-gap: 4px; padding-right: 8px; }
 .chart-y-axis { grid-area: y; position: relative; color: var(--faint); font-size: var(--text-caption); font-variant-numeric: tabular-nums; }
 .chart-y-axis > span { position: absolute; right: 0; transform: translateY(-50%); line-height: 1; }
 .chart-y-axis > span::after { content: ""; position: absolute; top: 50%; right: -4px; width: 3px; height: 1px; background: #93a8b54d; }
-.chart-plot-area { grid-area: plot; position: relative; min-width: 0; min-height: 0; }
+.chart-plot-area { grid-area: plot; position: relative; min-width: 0; min-height: 0; background: linear-gradient(180deg, #13182016, #13182006); border-radius: 4px; box-shadow: inset 0 1px 0 #d5eaff04; }
 .task-history-plot { position: absolute; inset: 0; display: block; width: 100%; height: 100%; overflow: visible; }
-.chart-gridline { stroke: #93a8b51a; stroke-width: 1; stroke-dasharray: 2 5; stroke-linecap: round; }
+.chart-gridline { stroke: #a9c2d51c; stroke-width: 1; stroke-dasharray: 2 5; stroke-linecap: round; }
 .chart-axis-line { fill: none; stroke: #93a8b54d; stroke-width: 1; stroke-linecap: round; stroke-linejoin: round; }
 .task-area { stroke: none; pointer-events: none; }
 .task-series { fill: none; stroke: var(--series-color); stroke-width: 1.75; stroke-linejoin: round; stroke-linecap: round; }
@@ -420,14 +425,14 @@ small { font-size: var(--text-caption); font-weight: 500; }
   .app-header, .side-panel, .picker-menu, .camera-controls, .replay-controls { -webkit-backdrop-filter: blur(20px); backdrop-filter: blur(20px); }
 }
 @supports not ((backdrop-filter: blur(1px)) or (-webkit-backdrop-filter: blur(1px))) {
-  .app-header, .side-panel, .picker-menu, .camera-controls, .replay-controls { background: #15202c; }
+  .app-header, .side-panel, .picker-menu, .camera-controls, .replay-controls { background: #2a2e35; }
 }
 /* Stacked panels have no moving scene behind them and need no backdrop blur. */
 @media (max-width: 1100px) {
   .side-panel { -webkit-backdrop-filter: none; backdrop-filter: none; }
 }
 @media (prefers-reduced-transparency: reduce), (prefers-contrast: more) {
-  :root { --surface: #15202c; --surface-raised: #1b2835; --surface-hover: #263747; --surface-inset: #0c1520; --glass-overlay: #15202c; }
+  :root { --surface: #24272d; --surface-raised: #2e3239; --surface-hover: #3a4049; --surface-inset: #191d24; --glass-overlay: #24272d; }
   .app-header, .side-panel, .picker-menu, .camera-controls, .replay-controls { background: var(--surface); -webkit-backdrop-filter: none; backdrop-filter: none; }
 }
 @media (prefers-reduced-motion: reduce) {
@@ -435,5 +440,8 @@ small { font-size: var(--text-caption); font-weight: 500; }
 }
 @media (prefers-contrast: more) {
   :root { --muted: #d3dfe5; --faint: #bfccd5; --rule: #71828e; }
-  .side-panel, .map-panel, .vehicle-card, .task-card, .transport-row, .speed-control { border-color: var(--rule); }
+  .side-panel, .map-panel, .vehicle-card, .task-card, .transport-row, .speed-control, .algorithm-picker, .layout-picker, .camera-controls, .replay-controls { border-color: var(--rule); }
+  .vehicle-card, .task-card, .charger-card { background: var(--surface-raised); }
+  .vehicle-card.is-active, .task-card.is-selected { background: var(--surface-hover); }
+  .vehicle-position .icon { opacity: 1; }
 }

diff --git a/web/app/components/factory-environment.ts b/web/app/components/factory-environment.ts
@@ -77,8 +77,8 @@ export function buildFactoryEnvironment(scene: THREE.Scene, scenario: MazeScenar
     scene.add(mesh);
   }
 
-  scene.add(new THREE.HemisphereLight(0xe1e9ed, 0x273542, 1.15));
-  const sun = new THREE.DirectionalLight(0xdce9f6, 2.3);
+  scene.add(new THREE.HemisphereLight(0xf0f2f4, 0x474749, 1.25));
+  const sun = new THREE.DirectionalLight(0xf2ede2, 2.65);
   sun.position.set(-7, 18, 9);
   sun.castShadow = true;
   sun.shadow.mapSize.set(2048, 2048);
@@ -91,19 +91,19 @@ export function buildFactoryEnvironment(scene: THREE.Scene, scenario: MazeScenar
   sun.shadow.bias = -0.0001;
   sun.shadow.radius = 2;
   scene.add(sun);
-  const fill = new THREE.DirectionalLight(0x99c2da, 0.5);
+  const fill = new THREE.DirectionalLight(0xd0dde0, 0.65);
   fill.position.set(8, 9, -5);
   scene.add(fill);
   // A soft pool of light lifts the working floor without flattening its edges.
   // Reuse the key light's shadows; this accent needs no extra shadow pass.
-  const workLight = new THREE.SpotLight(0xb8deed, 620, 55, Math.PI / 3, 1, 2);
+  const workLight = new THREE.SpotLight(0xdbe7e6, 680, 55, Math.PI / 3, 1, 2);
   workLight.position.set(0, 16, 6);
   workLight.target.position.set(0, 0, -1);
   scene.add(workLight, workLight.target);
 
   // Deterministic concrete grain: a small repeating texture, not a large asset.
   const concrete = texture(512, 512, (ctx) => {
-    ctx.fillStyle = "#535f69";
+    ctx.fillStyle = "#737978";
     ctx.fillRect(0, 0, 512, 512);
     let seed = 617;
     for (let i = 0; i < 26000; i++) {

diff --git a/web/app/layout.tsx b/web/app/layout.tsx
@@ -48,7 +48,7 @@ export const metadata: Metadata = {
 
 export const viewport: Viewport = {
   colorScheme: "dark",
-  themeColor: "#090d14",
+  themeColor: "#191c22",
 };
 
 export default function RootLayout({ children }: Readonly<{ children: React.ReactNode }>) {

diff --git a/README.md b/README.md
@@ -12,7 +12,7 @@ Coordinated forklifts. Shared factory floors. Interactive 3D simulation replays.
 
 </div>
 
-[![FleetLab console with a 3D factory, forklift routes, fleet and charger status, task progress, and a compact task queue](docs/assets/replay-explorer.png?v=transport-20261112)](https://revincxt.github.io/FleetLab/)
+[![FleetLab console with a 3D factory, forklift routes, fleet and charger status, task progress, and a compact task queue](docs/assets/replay-explorer.png?v=neutral-20261112)](https://revincxt.github.io/FleetLab/)
 
 ## Overview
 
